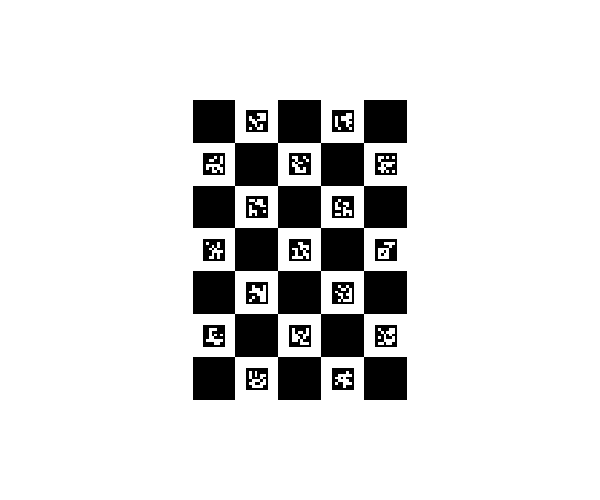
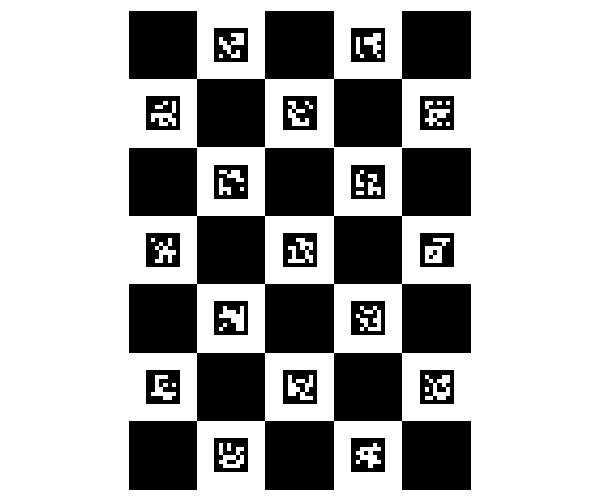
style: Reduced border size

diff --git a/computer-vision/camera-calibration.md b/computer-vision/camera-calibration.md
@@ -13,7 +13,7 @@ board = cv2.aruco.CharucoBoard_create(squaresX=5,
                                       markerLength=0.02,
                                       dictionary=dictionary)
 
-img = board.draw((600, 500), marginSize=100, borderBits=1)
+img = board.draw((600, 500), marginSize=10, borderBits=1)
 cv2.imwrite('board.png', img)
 ```
 
